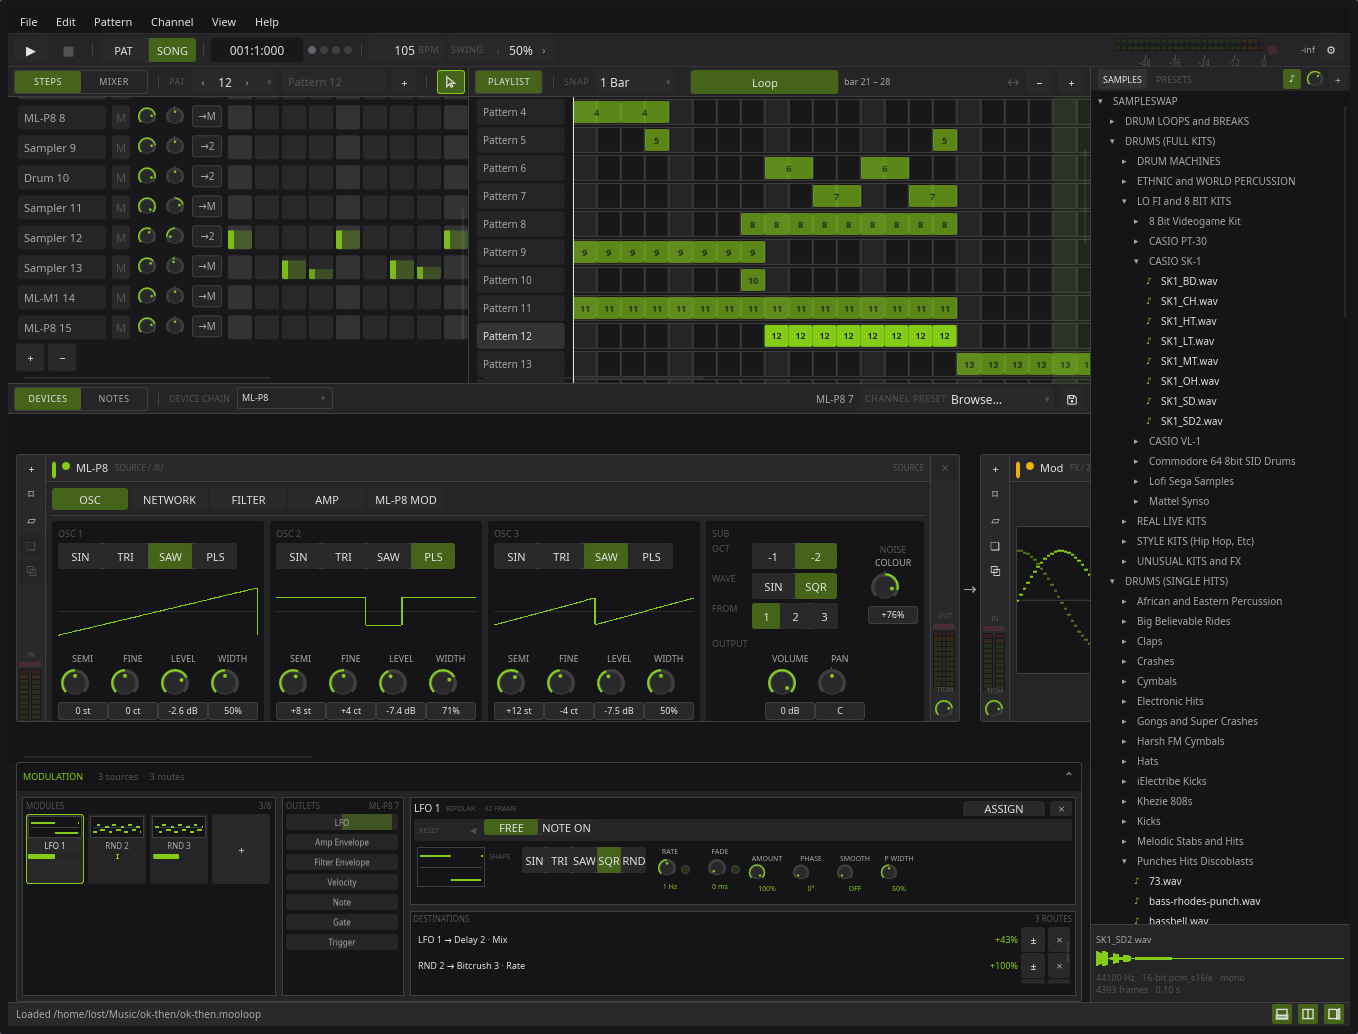
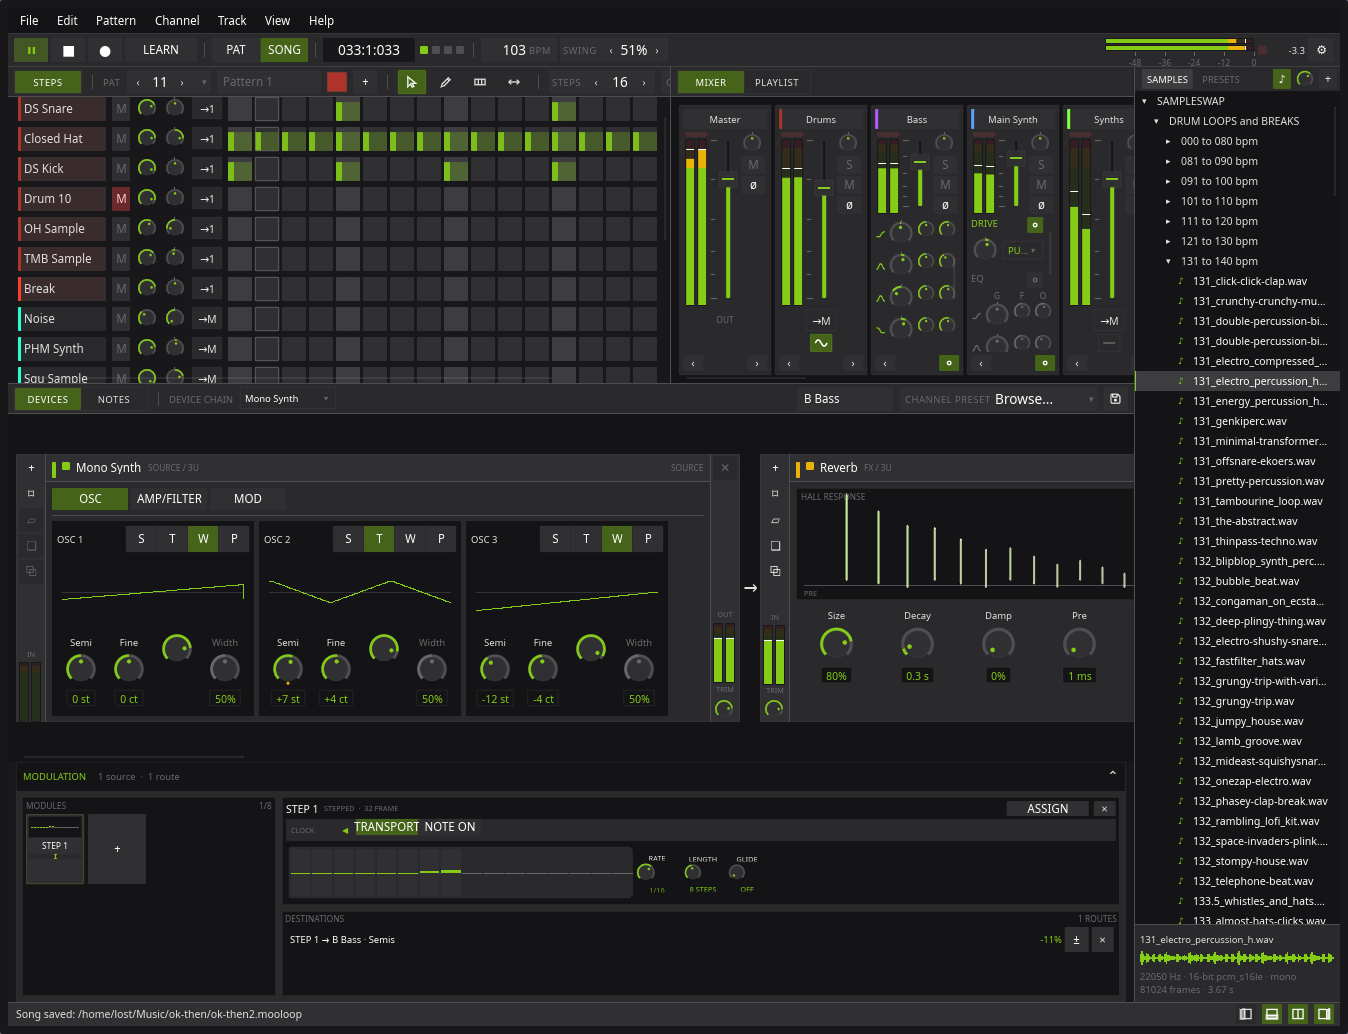
docs(readme): the 0.1.4 screenshot

diff --git a/README.md b/README.md
@@ -5,7 +5,7 @@
 </p>
 
 <p align="center">
-  <img src="mooloop-screenshot.png" alt="Mooloop: the channel rack, ML-P8 and the modulation shelf" width="900">
+  <img src="mooloop-screenshot.png" alt="Mooloop 0.1.4: the step sequencer, the mixer with its channel strips, a Mono Synth into Reverb with a step modulator, and the sample browser" width="900">
 </p>
 
 Mooloop is a Linux-native, pattern-based groove sequencer and instrument. It has a channel rack, piano roll, playlist, mixer, automation, effects, sample playback, and a few small synths. It runs through JACK or PipeWire's JACK layer and is written in Rust with a Slint interface.
